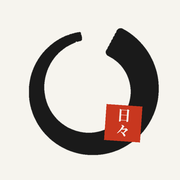
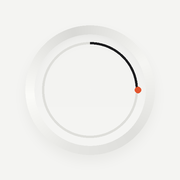
Hibi 4.0 : design épure, ultra minimaliste
- Un seul objet à l'accueil : disque d'aluminium avec fin filet de progression
- Monochrome, une seule couleur d'accent, typographie Hanken Grotesk
- Surfaces sans bordure, ombres douces, boutons en pilule, barre de navigation givrée
- Capacités signalées par de simples points de couleur, semaine en 7 points
- Nouvelle icône, mode sombre graphite

Claude-Session: https://claude.ai/code/session_01QAnUrmcmE5kQA3hq1qeYYs

Changed region(s): [[0.1389, 0.1389, 0.8889, 0.8611]]

diff --git a/index.html b/index.html
@@ -5,8 +5,8 @@
 <meta name="viewport" content="width=device-width,initial-scale=1,viewport-fit=cover">
 <title>Hibi</title>
 <meta name="description" content="日々, jour après jour. Dix minutes par jour pour garder l'esprit vif après 40 ans.">
-<meta name="theme-color" content="#F6F4EE" media="(prefers-color-scheme: light)">
-<meta name="theme-color" content="#151412" media="(prefers-color-scheme: dark)">
+<meta name="theme-color" content="#F4F4F2" media="(prefers-color-scheme: light)">
+<meta name="theme-color" content="#0B0B0C" media="(prefers-color-scheme: dark)">
 <link rel="manifest" href="manifest.webmanifest">
 <link rel="icon" href="icons/icon-192.png">
 <link rel="apple-touch-icon" href="icons/apple-touch-icon.png">
@@ -17,7 +17,7 @@
 <script src="config.js"></script>
 <link rel="preconnect" href="https://fonts.googleapis.com">
 <link rel="preconnect" href="https://fonts.gstatic.com" crossorigin>
-<link rel="stylesheet" href="https://fonts.googleapis.com/css2?family=Shippori+Mincho:wght@500;600;700&family=Zen+Kaku+Gothic+New:wght@300;400;500;700&display=swap">
+<link rel="stylesheet" href="https://fonts.googleapis.com/css2?family=Hanken+Grotesk:wght@200;300;400;500;600;700&display=swap">
 <style>
 /* Layout: one calm column (max 34rem), fixed bottom tab bar, large tap targets; games take the full column with nav hidden */
 :root{
@@ -357,6 +357,101 @@ h1{font-weight:600;font-size:2rem}
 .ma{padding:1.5rem 1.3rem}
 .stack-lg{gap:2.1rem}
 .seal{font-family:var(--display)}
+
+/* ===== Hibi · épure : un seul objet, monochrome, une seule couleur ===== */
+:root{--bg:#F4F4F2;--surface:#FFFFFF;--tint:#EBEBE8;--line:#E0E0DC;--ink:#1D1D1F;--muted:#86868B;--accent:#1D1D1F;--accent-ink:#FFFFFF;--accent2:#E2552E;--warm:#E2552E;--good:#2E8B57;--bad:#D14B36;
+ --k-ufov:#E2552E;--k-corsi:#5B5BD6;--k-switch:#2A9D8F;--k-list:#C2507A;--k-ink:#FFFFFF;--up:#2E8B57;--down:#D14B36;
+ --s1:#1D1D1F;--s2:#E2552E;--s3:#5B5BD6;--s4:#2A9D8F;--s5:#C2507A;--s6:#8E8E93;
+ --display:"Hanken Grotesk",system-ui,-apple-system,sans-serif;--body:"Hanken Grotesk",system-ui,-apple-system,sans-serif;
+ --m1:#E6E6E3;--m2:#FBFBFA;--m3:#D8D8D4;--m4:#F6F6F4;--m5:#DEDEDA;--lift:0 1px 2px rgba(20,20,20,.05),0 10px 28px rgba(20,20,20,.05)}
+@media (prefers-color-scheme: dark){:root:not([data-theme="light"]){--bg:#0B0B0C;--surface:#161618;--tint:#1F1F22;--line:#2C2C2F;--ink:#F5F5F7;--muted:#8E8E93;--accent:#F5F5F7;--accent-ink:#0B0B0C;--accent2:#FF6A3D;--warm:#FF6A3D;--good:#5DD39E;--bad:#FF7A66;
+ --k-ufov:#FF6A3D;--k-corsi:#8E8CFF;--k-switch:#4FD1C0;--k-list:#F08AB2;--k-ink:#0B0B0C;--up:#5DD39E;--down:#FF7A66;--s1:#F5F5F7;--s2:#FF6A3D;--s3:#8E8CFF;--s4:#4FD1C0;--s5:#F08AB2;--s6:#8E8E93;
+ --m1:#2A2A2D;--m2:#3B3B3F;--m3:#1E1E21;--m4:#37373A;--m5:#242427;--lift:0 1px 2px rgba(0,0,0,.4),0 10px 28px rgba(0,0,0,.35);color-scheme:dark}}
+:root[data-theme="dark"]{--bg:#0B0B0C;--surface:#161618;--tint:#1F1F22;--line:#2C2C2F;--ink:#F5F5F7;--muted:#8E8E93;--accent:#F5F5F7;--accent-ink:#0B0B0C;--accent2:#FF6A3D;--warm:#FF6A3D;--good:#5DD39E;--bad:#FF7A66;
+ --k-ufov:#FF6A3D;--k-corsi:#8E8CFF;--k-switch:#4FD1C0;--k-list:#F08AB2;--k-ink:#0B0B0C;--up:#5DD39E;--down:#FF7A66;--s1:#F5F5F7;--s2:#FF6A3D;--s3:#8E8CFF;--s4:#4FD1C0;--s5:#F08AB2;--s6:#8E8E93;
+ --m1:#2A2A2D;--m2:#3B3B3F;--m3:#1E1E21;--m4:#37373A;--m5:#242427;--lift:0 1px 2px rgba(0,0,0,.4),0 10px 28px rgba(0,0,0,.35);color-scheme:dark}
+body{background:var(--bg);letter-spacing:-.005em;-webkit-font-smoothing:antialiased}
+h1,h2,h3,.big,.bignum span,.digit,.word,.gname h2{font-family:var(--display)}
+h1{font-weight:600;font-size:2.1rem;letter-spacing:-.03em}
+h2{font-weight:600;letter-spacing:-.02em}
+h3{font-weight:600;letter-spacing:-.01em;font-size:1.08rem}
+.eyebrow{text-transform:none;letter-spacing:0;font-weight:400;font-size:.9rem;color:var(--muted)}
+.big{font-weight:200;letter-spacing:-.05em;font-size:4.6rem}
+.unit{font-weight:400}
+.bignum span{font-weight:200;letter-spacing:-.04em}
+.digit{font-weight:200;letter-spacing:-.04em}
+.word{font-weight:400;letter-spacing:-.02em}
+.stack-lg{gap:2.6rem}
+.seal,.stamp,.confetti,.kjt{display:none!important}
+.jp{color:var(--muted);letter-spacing:0}
+/* the one object */
+.hero{background:transparent;color:var(--ink);padding:0;gap:1.6rem;border-radius:0}
+.herotop{flex-direction:column;align-items:center;gap:1.6rem}
+.disc{position:relative;border-radius:50%;max-width:100%;background:conic-gradient(from 200deg,var(--m1),var(--m2) 18%,var(--m3) 40%,var(--m4) 62%,var(--m5) 82%,var(--m1));box-shadow:0 34px 60px rgba(20,20,20,.10),0 2px 4px rgba(20,20,20,.06),inset 0 1px 1px rgba(255,255,255,.7)}
+.disc-in{position:absolute;inset:7.5%;border-radius:50%;background:var(--bg);box-shadow:inset 0 2px 7px rgba(0,0,0,.10),inset 0 -1px 1px rgba(255,255,255,.5)}
+.disc svg{position:absolute;inset:0;width:100%;height:100%}
+.ringarc{transition:stroke-dasharray 1s cubic-bezier(.2,.8,.2,1)}
+.hero .plan li{border-top:1px solid var(--line);padding:.95rem 0;background:transparent}
+.hero .plan li:last-child{border-bottom:1px solid var(--line)}
+.hero .plan li.ok{opacity:.4}
+.plan .pt span{font-size:.88rem;opacity:1;color:var(--muted)}
+.plan .pdone{color:var(--muted);font-weight:400;text-transform:none;letter-spacing:0}
+/* skill marks become quiet dots */
+.pi{width:.6rem!important;height:.6rem!important;border-radius:50%!important;flex:none}
+.pi .kj,.pi svg{display:none}
+.pi.lg{width:.8rem!important;height:.8rem!important}
+.gname{gap:.7rem}
+.tile2 .pi{margin-bottom:.6rem}
+/* surfaces */
+.card,.tile2,.bigcard,.codebox{border:0!important;border-radius:24px;background:var(--surface);box-shadow:var(--lift)}
+.tiles{gap:.75rem;border:0}
+.tile2{min-height:9rem;padding:1.1rem}
+.tile2:nth-child(odd){border-right:0}
+.bilan{background:var(--surface)!important}
+.delta{background:transparent;padding:0;color:var(--muted)}
+.note{border-left:0;padding-left:0}
+.btn{border-radius:99px;font-weight:500;letter-spacing:-.005em;min-height:3.6rem}
+.btn.ghost,.btn.quiet{border:0;background:var(--tint);color:var(--ink)}
+.hero .btn{background:var(--ink);color:var(--bg)}
+.btn.danger{background:var(--bad);color:#fff}
+.seg,.tabs2{border-radius:99px;background:var(--tint)}
+.seg button,.tabs2 button{border-radius:99px}
+.seg button[aria-pressed="true"],.tabs2 button[aria-pressed="true"]{box-shadow:0 1px 3px rgba(0,0,0,.12)}
+input.t{border-radius:16px;border:1px solid var(--line);background:var(--surface)}
+.linkbtn{color:var(--ink);font-weight:500}
+/* week & calendar */
+.week{justify-content:space-between}
+.day i{width:.75rem;height:.75rem;border-radius:50%!important;border:1px solid var(--muted);background:transparent;transform:none!important}
+.day.on i{background:var(--ink);border-color:var(--ink)}
+.day.kin i{border-color:var(--line)}
+.day.today i{box-shadow:0 0 0 4px color-mix(in srgb,var(--accent2) 28%,transparent);border-color:var(--accent2)}
+.day small{font-weight:500}
+.cal i{border-radius:50%} .cal i.on{background:var(--ink)}
+.bt{height:.3rem;border-radius:99px;background:var(--line)} .bt>span{border-radius:99px} .bt.lg{height:.45rem}
+.bt em{width:2px;background:var(--ink)}
+/* navigation */
+nav.tabs{background:color-mix(in srgb,var(--bg) 80%,transparent);backdrop-filter:saturate(1.8) blur(22px);-webkit-backdrop-filter:saturate(1.8) blur(22px);border-top:1px solid var(--line)}
+nav.tabs svg{stroke-width:1.5}
+nav.tabs button{font-weight:500}
+nav.tabs button[aria-current="page"]{color:var(--ink)}
+/* exercises */
+.choice{border:0;border-radius:20px;background:var(--surface);box-shadow:var(--lift);font-weight:500}
+.choice:active{transform:scale(.98)}
+#stage.ok,#stage.bad{border-radius:28px}
+.ufov{background:var(--surface);border:0;box-shadow:inset 0 2px 10px rgba(0,0,0,.07)}
+.grid9{background:transparent;padding:0;gap:.8rem}
+.tile{border:0;border-radius:20px;background:var(--surface);box-shadow:var(--lift)}
+.tile.lit{background:var(--accent2)} .tile.tap{background:var(--ink)}
+.rule{border-radius:14px;font-weight:500;letter-spacing:.01em}
+.timebar{height:3px} .timebar i{background:var(--accent2)}
+.illu{border-radius:28px;background:var(--surface)!important;box-shadow:var(--lift)}
+.obart img{border-radius:22%;box-shadow:var(--lift)}
+.ringbig{color:var(--ink)}
+.profhead .bignum small{font-weight:500}
+.mem .wk span{border-radius:99px;height:.35rem}
+.bn{font-weight:500}
+.bn i{width:.55rem!important;height:.55rem!important;border-radius:50%!important}
+.legend2 i{width:.55rem;height:.55rem}
 </style>
 </head>
 <body>
@@ -435,7 +530,7 @@ function show(html,tab){runId++;document.body.classList.remove("playing");if(tab
 function weekDays(){const n=new Date();const off=(n.getDay()+6)%7;const m=new Date(n.getFullYear(),n.getMonth(),n.getDate()-off);return Array.from({length:7},(_,i)=>new Date(m.getFullYear(),m.getMonth(),m.getDate()+i))}
 const KIN='<svg viewBox="0 0 24 24" width="22" height="22" aria-hidden="true"><path d="M4 9 L9 12 L8 15 L13 14 L15 18 L20 16" fill="none" stroke="#B8913A" stroke-width="1.8" stroke-linecap="round" stroke-linejoin="round"/></svg>';
 function weekHTML(){const L=["L","M","M","J","V","S","D"];const t=today();
- return '<div class="week" role="list">'+weekDays().map((d,i)=>{const k=dkey(d);const on=!!D.days[k];return `<div class="day${on?" on":""}${!on&&k<t?" kin":""}${k===t?" today":""}" role="listitem" aria-label="${d.toLocaleDateString("fr-FR",{weekday:"long"})}${on?", séance faite":""}"><i>${on?"済":(k<t?KIN:"")}</i><small>${L[i]}</small></div>`}).join("")+"</div>"}
+ return '<div class="week" role="list">'+weekDays().map((d,i)=>{const k=dkey(d);const on=!!D.days[k];return `<div class="day${on?" on":""}${!on&&k<t?" kin":""}${k===t?" today":""}" role="listitem" aria-label="${d.toLocaleDateString("fr-FR",{weekday:"long"})}${on?", séance faite":""}"><i></i><small>${L[i]}</small></div>`}).join("")+"</div>"}
 function weekCount(){return weekDays().filter(d=>D.days[dkey(d)]).length}
 
 /* ---------- profil & plan du jour ---------- */
@@ -455,13 +550,8 @@ function sessionOrder(){const rest=["corsi","switch","list"];const n=Math.floor(
  return ["ufov"].concat(r)}
 function todayPlan(){if(!D.today||D.today.d!==today()){D.today={d:today(),order:sessionOrder(),done:[]};save()}return D.today}
 const todayDone=()=>todayPlan().done;
-let ensoId=0;
-function ring(n,N,size,label){const f=N?n/N:0,id="br"+(++ensoId),C=2*Math.PI*118,arc=(C*0.9*f).toFixed(1),rot=-62;
- return `<svg class="ring enso" viewBox="0 0 320 320" width="${size}" height="${size}" role="img" aria-label="${n} exercices sur ${N}"><filter id="${id}"><feTurbulence type="fractalNoise" baseFrequency="0.05" numOctaves="2" seed="7"/><feDisplacementMap in="SourceGraphic" scale="${size>110?6:4}"/></filter>
- <g filter="url(#${id})" fill="none" stroke-linecap="round"><circle cx="160" cy="160" r="118" stroke="currentColor" stroke-opacity=".12" stroke-width="10"/>
- ${f>0?`<circle class="ringarc" cx="160" cy="160" r="118" stroke="currentColor" stroke-width="20" stroke-dasharray="${arc} ${C.toFixed(1)}" transform="rotate(${rot} 160 160)"/><circle cx="160" cy="160" r="110" stroke="currentColor" stroke-opacity=".6" stroke-width="5" stroke-dasharray="${(arc*0.85).toFixed(1)} ${C.toFixed(1)}" transform="rotate(${rot+8} 160 160)"/><circle cx="160" cy="160" r="126" stroke="currentColor" stroke-opacity=".45" stroke-width="3" stroke-dasharray="30 8 60 6 ${(arc*0.5).toFixed(1)} ${C.toFixed(1)}" transform="rotate(${rot+4} 160 160)"/>`:""}</g>
- ${f>0?`<circle cx="${(160+118*Math.cos(rot*Math.PI/180)).toFixed(1)}" cy="${(160+118*Math.sin(rot*Math.PI/180)).toFixed(1)}" r="12" fill="currentColor" filter="url(#${id})"/>`:""}
- <text x="160" y="${label?168:178}" text-anchor="middle" font-size="64" font-weight="300" fill="currentColor" font-family="Zen Kaku Gothic New, sans-serif">${n}<tspan font-size="34" fill-opacity=".5"> / ${N}</tspan></text>${label?`<text x="160" y="204" text-anchor="middle" font-size="16" letter-spacing="2" fill="currentColor" fill-opacity=".65" font-family="Zen Kaku Gothic New, sans-serif">${label}</text>`:""}</svg>`}
+function ring(n,N,size,label){const f=N?n/N:0,s=size,c=s/2,R=s*0.36,C=2*Math.PI*R,a=(-90+360*f)*Math.PI/180,w=Math.max(2,s/110);
+ return `<div class="disc" style="width:${s}px;height:${s}px"><div class="disc-in"></div><svg viewBox="0 0 ${s} ${s}" width="${s}" height="${s}" role="img" aria-label="${n} exercices sur ${N}"><circle cx="${c}" cy="${c}" r="${R}" fill="none" stroke="var(--line)" stroke-width="${w}"/>${f>0?`<circle class="ringarc" cx="${c}" cy="${c}" r="${R}" fill="none" stroke="var(--ink)" stroke-width="${w}" stroke-linecap="round" stroke-dasharray="${(C*f).toFixed(1)} ${C.toFixed(1)}" transform="rotate(-90 ${c} ${c})"/><circle cx="${(c+R*Math.cos(a)).toFixed(1)}" cy="${(c+R*Math.sin(a)).toFixed(1)}" r="${(s/56).toFixed(1)}" fill="var(--accent2)"/>`:""}<text x="${c}" y="${(c+s*0.065).toFixed(1)}" text-anchor="middle" font-size="${(s*0.2).toFixed(1)}" font-weight="200" fill="var(--ink)" letter-spacing="-2" font-family="Hanken Grotesk, system-ui, sans-serif">${n}<tspan fill="var(--muted)"> / ${N}</tspan></text>${label?`<text x="${c}" y="${(c+s*0.16).toFixed(1)}" text-anchor="middle" font-size="${(s*0.05).toFixed(1)}" fill="var(--muted)" font-family="Hanken Grotesk, system-ui, sans-serif">${label}</text>`:""}</svg></div>`}
 function bilanDue(){const b=D.bilans||[];if(!b.length)return "first";const [y,m,d]=b[b.length-1].d.split("-").map(Number);return (Date.now()-new Date(y,m-1,d))/864e5>=28?"monthly":null}
 function profileHTML(){
  const o=overall();const pl=GKEYS.filter(played);
@@ -484,7 +574,7 @@ function home(){
  show(`<div class="stack-lg">
   <header class="hhead"><div class="stack" style="gap:.25rem"><p class="eyebrow">${dateStr}</p><h1>${hello}</h1></div><span class="seal" aria-label="Hibi">日<br>々</span></header>
   <section class="hero" aria-labelledby="h-sess">
-   <div class="herotop"><div class="ringwrap">${ring(n,N,240,"séance du jour")}</div><div class="stack" style="gap:.25rem;min-width:0;text-align:center"><p class="eyebrow">10 minutes · jour après jour</p><h2 id="h-sess">${all?"Séance faite. Bravo !":n?"On reprend où vous en étiez":"Prêt pour aujourd'hui ?"}</h2></div></div>
+   <div class="herotop"><div class="ringwrap">${ring(n,N,280,"exercices aujourd'hui")}</div><div class="stack" style="gap:.25rem;min-width:0;text-align:center"><p class="eyebrow">Dix minutes, chaque jour</p><h2 id="h-sess">${all?"Séance faite. Bravo !":n?"On reprend où vous en étiez":"Prêt pour aujourd'hui ?"}</h2></div></div>
    <ol class="plan">${P.order.map((g,i)=>{const ok=done.includes(g);return `<li class="${ok?"ok":""}"><span class="pi" style="background:${KCOL[g]}">${ok?'<svg viewBox="0 0 24 24" width="22" height="22" fill="none" stroke="currentColor" stroke-width="3" stroke-linecap="round" stroke-linejoin="round"><path d="M5 12.5l4.5 4.5L19 7.5"/></svg>':ICON[g]}</span><span class="pt"><strong>${GAMES[g].name}</strong><span>${GAMES[g].skill}${i===0?" · cœur de la séance":""}</span></span>${ok?'<span class="pdone">fait</span>':""}</li>`}).join("")}</ol>
    <button class="btn" id="go">${all?"Refaire une séance":n?"Continuer : "+GAMES[nextG].name:"Commencer la séance"}</button>
    ${n&&!all?'<p class="small" style="opacity:.85">Faites une pause quand vous voulez : la séance reprend ici.</p>':""}
@@ -494,7 +584,7 @@ function home(){
   <section class="card stack" aria-labelledby="h-week">
    <div style="display:flex;justify-content:space-between;align-items:baseline;gap:1rem;flex-wrap:wrap"><h3 id="h-week">Cette semaine</h3><span class="muted small num">${wc} jour${wc>1?"s":""} sur 5 visés</span></div>
    ${weekHTML()}
-   <p class="small muted">Un jour manqué n'efface rien. Comme dans le kintsugi, il reste une fine ligne d'or : la reprise compte plus que la cassure.</p>
+   <p class="small muted">Un jour manqué n'efface rien. Ce qui compte, c'est la régularité.</p>
   </section>
   <section class="stack" aria-labelledby="h-free"><h3 id="h-free">Exercices à la carte</h3>
    <div class="tiles">${GKEYS.map(g=>`<button class="tile2" data-g="${g}"><span class="pi" style="background:${KCOL[g]}">${ICON[g]}</span><b>${GAMES[g].name}</b><span class="small muted">${GAMES[g].skill}</span><span class="lvl num">${played(g)?rating(idx(g))+" · "+idx(g):"Nouveau"}</span></button>`).join("")}</div>
@@ -550,7 +640,7 @@ function intro(g){
  const G=GAMES[g];
  show(`<div class="stack-lg">
   <div class="gtop"><button class="linkbtn" id="back">‹ Retour</button><span>${posLabel()}</span></div>
-  <div class="gname"><span class="pi lg" style="background:${KCOL[g]}">${ICON[g]}</span><div><p class="eyebrow">${G.skill} · ${KANJI[g][0]} ${KANJI[g][1]}, ${KANJI[g][2]}</p><h2>${G.name}</h2></div></div>
+  <div class="gname"><span class="pi lg" style="background:${KCOL[g]}">${ICON[g]}</span><div><p class="eyebrow">${G.skill}</p><h2>${G.name}</h2></div></div>
   <div class="illu" style="background:color-mix(in srgb, ${KCOL[g]} 16%, var(--surface))" aria-hidden="true">${G.illu}</div>
   <ol class="steps">${G.steps.map(s=>`<li>${s}</li>`).join("")}</ol>
   <p class="note small muted">${G.why}</p>
@@ -851,7 +941,7 @@ function progress(){
   </section>`;
  }
  show(`<div class="stack-lg">
-  <header class="stack" style="gap:.35rem"><p class="eyebrow"><span class="kjt">進歩</span> shinpo · le progrès</p><h1>Progrès</h1></header>
+  <header class="stack" style="gap:.35rem"><p class="eyebrow">Vos courbes</p><h1>Progrès</h1></header>
   ${profileHTML()}
   ${bh}
   <section class="card stack"><div style="display:flex;justify-content:space-between;align-items:baseline;flex-wrap:wrap;gap:.5rem"><h3>4 dernières semaines</h3><span class="muted small num">${active} jours actifs sur 28</span></div>
@@ -875,7 +965,7 @@ function science(){
   ["« Des promesses scientifiques exagérées »","Cette page, qui dit ce qu'on sait et ce qu'on ne sait pas."]
  ];
  show(`<div class="stack-lg">
-  <header class="stack" style="gap:.35rem"><p class="eyebrow"><span class="kjt">知</span> chi · le savoir</p><h1>Science</h1></header>
+  <header class="stack" style="gap:.35rem"><p class="eyebrow">Ce que dit la recherche</p><h1>Science</h1></header>
   <section class="stack">
    <h3>Ce qui a le plus de preuves</h3>
    <p>L'étude ACTIVE a suivi près de 2 800 personnes âgées pendant 20 ans. Seul l'entraînement à la vitesse de traitement visuel, complété par des séances de rappel, a été associé à un risque de démence plus faible, d'environ 25 %. Les groupes entraînés à la mémoire ou au raisonnement n'ont pas montré cet effet.</p>
@@ -932,7 +1022,7 @@ function settings(){
  const S=D.settings;
  const seg=(k,opts)=>`<div class="seg" role="group">${opts.map(o=>`<button data-k="${k}" data-v="${o[0]}" aria-pressed="${S[k]===o[0]}">${o[1]}</button>`).join("")}</div>`;
  show(`<div class="stack-lg">
-  <header class="stack" style="gap:.35rem"><p class="eyebrow"><span class="kjt">整</span> totonou · ajuster</p><h1>Réglages</h1></header>
+  <header class="stack" style="gap:.35rem"><p class="eyebrow">Confort</p><h1>Réglages</h1></header>
   <label class="f" for="set-name">Votre prénom<input class="t" id="set-name" autocomplete="given-name" maxlength="40" value="${esc(D.name||"")}" placeholder="Pour vous saluer sur l'accueil"></label>
   <section class="stack" style="gap:.6rem"><h3>Taille du texte</h3>${seg("size",[["normal","Normal"],["grand","Grand"],["tresgrand","Très grand"]])}</section>
   <section class="stack" style="gap:.6rem"><h3>Rythme</h3>${seg("pace",[["calme","Calme"],["standard","Standard"]])}<p class="small muted">Le rythme calme laisse plus de temps pour regarder les séquences et lire la liste. Le temps de Champ visuel s'adapte de toute façon à vous.</p></section>
@@ -958,7 +1048,7 @@ function settings(){
 }
 
 /* ---------- famille : synchronisation ---------- */
-const VERSION="3.0";
+const VERSION="4.0";
 const CFG=window.VIVACE_CONFIG||{};
 const shareOn=()=>!!(CFG.supabaseUrl&&CFG.supabaseAnonKey);
 const esc=s=>String(s).replace(/[&<>"']/g,c=>({"&":"&amp;","<":"&lt;",">":"&gt;",'"':"&quot;","'":"&#39;"}[c]));
@@ -991,7 +1081,7 @@ window.addEventListener("online",flush);
 let famTab=null;
 function famille(){
  if(!shareOn())return show(`<div class="stack-lg">
-  <header class="stack" style="gap:.35rem"><p class="eyebrow"><span class="kjt">家族</span> kazoku · la famille</p><h1>Famille</h1></header>
+  <header class="stack" style="gap:.35rem"><p class="eyebrow">Entre proches</p><h1>Famille</h1></header>
   <div class="card stack"><h3>Le partage n'est pas encore activé</h3><p>Cette installation de Hibi n'est reliée à aucune base de données. Les exercices fonctionnent normalement, mais les résultats restent sur cet appareil.</p><p class="small muted">Pour l'activer, renseignez l'adresse et la clé Supabase dans le fichier config.js du dépôt (voir le README).</p></div>
  </div>`,"famille");
  if(!D.family)return joinView();
@@ -1002,7 +1092,7 @@ function joinView(){
  if(famTab===null)famTab=inv?"join":"create";
  const j=famTab==="join";
  show(`<div class="stack-lg">
-  <header class="stack" style="gap:.35rem"><p class="eyebrow"><span class="kjt">家族</span> kazoku · la famille</p><h1>Famille</h1><p class="muted">Créez un groupe, invitez vos proches avec un code, et suivez ensemble la régularité et les progrès de chacun.</p></header>
+  <header class="stack" style="gap:.35rem"><p class="eyebrow">Entre proches</p><h1>Famille</h1><p class="muted">Créez un groupe, invitez vos proches avec un code, et suivez ensemble la régularité et les progrès de chacun.</p></header>
   <div class="tabs2" role="group"><button id="t-create" aria-pressed="${!j}">Créer un groupe</button><button id="t-join" aria-pressed="${j}">J'ai un code</button></div>
   <form class="card stack" id="ff" novalidate>
    <label class="f" for="f-name">Votre prénom<input class="t" id="f-name" autocomplete="given-name" maxlength="40" placeholder="Ex. Pascal" value="${esc(D.lastName||D.name||"")}"></label>

diff --git a/sw.js b/sw.js
@@ -1,5 +1,5 @@
 // Vivace : fonctionne hors ligne. Changer VERSION à chaque mise en ligne.
-const VERSION = "hibi-3.0";
+const VERSION = "hibi-4.0";
 const SHELL = ["./", "index.html", "config.js", "manifest.webmanifest", "icons/icon-192.png", "icons/icon-512.png", "icons/apple-touch-icon.png"];
 
 self.addEventListener("install", e => {

diff --git a/README.md b/README.md
@@ -40,6 +40,6 @@ Publié avec GitHub Pages depuis la branche `main`, dossier racine (Settings →
 - Dans le groupe (si activé) : prénom, exercice, score et date de chaque partie. Rien d'autre.
 - Quitter un groupe (Réglages) efface vos résultats partagés.
 
-Le design s'inspire de l'artisanat japonais : encre de Chine (ensō), papier washi, sceaux hanko, kintsugi pour les jours manqués, typographie Mincho.
+Design « épure » : un seul objet par écran (un disque d'aluminium qui se remplit au fil de la séance), monochrome, une seule couleur d'accent, mode sombre soigné.
 
 Hibi n'est pas un dispositif médical.
